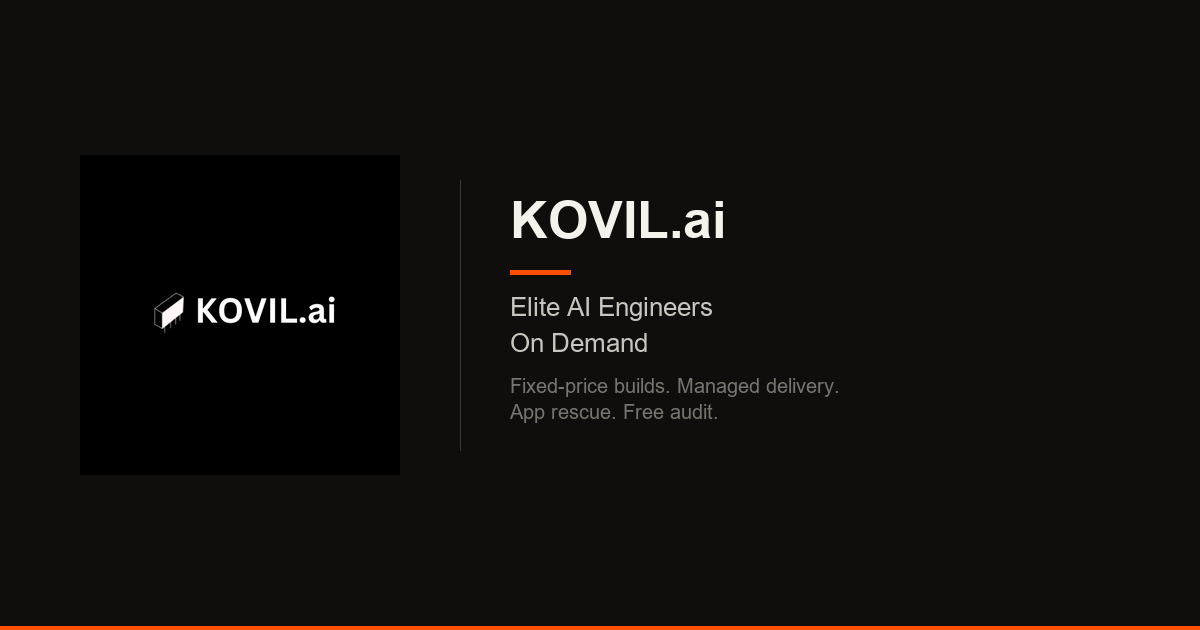
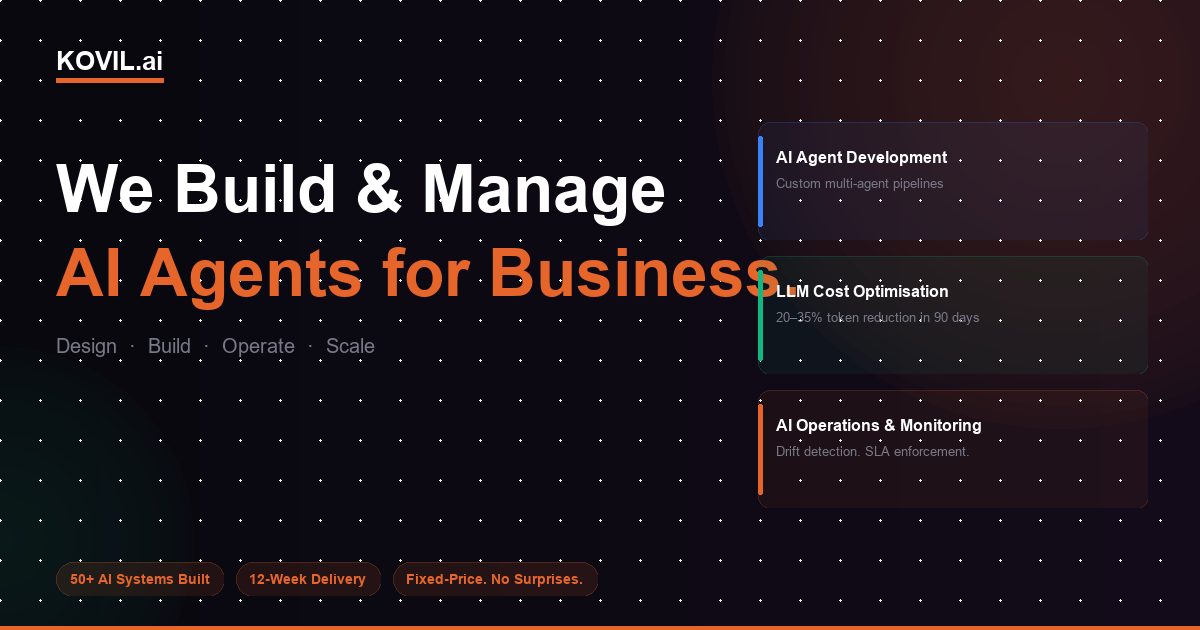
Redesign global og-image.png for social sharing
New design: full-canvas dark card, "We Build & Manage AI Agents for Business."
headline, 3 service cards right, stat pills bottom, orange glow + dot grid.
Replaces sparse "Elite AI Engineers On Demand" card.

diff --git a/scripts/generate-blog-images.py b/scripts/generate-blog-images.py
@@ -2633,6 +2633,113 @@ def make_reduce_ai_token_costs_image():
     print(f"Saved: {out}")
 
 
+def make_og_image():
+    """Global OG image — 1200×630, used as fallback for all non-blog pages."""
+    W_OG, H_OG = 1200, 630
+    img = Image.new("RGBA", (W_OG, H_OG), (8, 8, 14))
+    draw = ImageDraw.Draw(img)
+
+    # Gradient bg
+    for x in range(W_OG):
+        t = x / W_OG
+        r = int(8  + (20 -  8) * t)
+        g = int(8  + (12 -  8) * t)
+        b = int(14 + (26 - 14) * t)
+        draw.line([(x, 0), (x, H_OG)], fill=(r, g, b))
+
+    # Glows
+    glow = Image.new("RGBA", (W_OG, H_OG), (0, 0, 0, 0))
+    gd = ImageDraw.Draw(glow)
+    for i in range(30, 0, -1):
+        r = int(360 * i / 30)
+        a = int(42 * (1 - i / 30) ** 0.5)
+        gd.ellipse([1060 - r, 80 - r, 1060 + r, 80 + r], fill=(*ORANGE, a))
+    img.paste(glow, mask=glow)
+
+    glow2 = Image.new("RGBA", (W_OG, H_OG), (0, 0, 0, 0))
+    gd2 = ImageDraw.Draw(glow2)
+    for i in range(30, 0, -1):
+        r = int(200 * i / 30)
+        a = int(24 * (1 - i / 30) ** 0.5)
+        gd2.ellipse([0 - r, 540 - r, 0 + r, 540 + r], fill=(16, 185, 129, a))
+    img.paste(glow2, mask=glow2)
+
+    draw = ImageDraw.Draw(img)
+
+    # Dot grid
+    for x in range(0, W_OG, 40):
+        for y in range(0, H_OG, 40):
+            draw.ellipse([x - 1, y - 1, x + 1, y + 1], fill=(255, 255, 255, 14))
+
+    # ── KOVIL.ai wordmark ─────────────────────────────────────────────────────
+    logo_font = ImageFont.truetype(FONT_BOLD, 26)
+    draw.text((56, 46), "KOVIL.ai", font=logo_font, fill=WHITE)
+    lw = draw.textbbox((0, 0), "KOVIL.ai", font=logo_font)[2]
+    draw.rectangle([56, 78, 56 + lw, 82], fill=ORANGE)
+
+    # ── Main headline ─────────────────────────────────────────────────────────
+    h1_font  = ImageFont.truetype(FONT_BOLD,    66)
+    sub_font = ImageFont.truetype(FONT_REGULAR, 20)
+
+    draw.text((56, 152), "We Build & Manage",       font=h1_font, fill=WHITE)
+    draw.text((56, 236), "AI Agents for Business.", font=h1_font, fill=ORANGE)
+
+    # Sub-tagline
+    draw.text((56, 334), "Design  ·  Build  ·  Operate  ·  Scale",
+              font=sub_font, fill=GREY_DIM)
+
+    # ── Bottom stat pills ─────────────────────────────────────────────────────
+    stats     = ["50+ AI Systems Built", "12-Week Delivery", "Fixed-Price. No Surprises."]
+    pill_font = ImageFont.truetype(FONT_BOLD, 14)
+    px, py    = 56, H_OG - 68
+    for stat in stats:
+        pw = draw.textbbox((0, 0), stat, font=pill_font)[2] + 28
+        ph = 34
+        pill = Image.new("RGBA", (pw, ph), (0, 0, 0, 0))
+        pc = ImageDraw.Draw(pill)
+        pc.rounded_rectangle([0, 0, pw, ph], radius=17, fill=(*ORANGE, 28))
+        pc.rounded_rectangle([0, 0, pw, ph], radius=17, outline=(*ORANGE, 80), width=1)
+        img.paste(pill, (px, py), mask=pill)
+        draw = ImageDraw.Draw(img)
+        draw.text((px + pw // 2, py + ph // 2), stat,
+                  font=pill_font, fill=ORANGE, anchor="mm")
+        px += pw + 12
+
+    # ── Right side: 3 service cards ───────────────────────────────────────────
+    services = [
+        ("AI Agent Development",      "Custom multi-agent pipelines",      (59, 130, 246)),
+        ("LLM Cost Optimisation",     "20–35% token reduction in 90 days", (16, 185, 129)),
+        ("AI Operations & Monitoring","Drift detection. SLA enforcement.",  ORANGE),
+    ]
+    card_w, card_h, gap = 390, 118, 16
+    sx = W_OG - card_w - 52
+    total_h = len(services) * card_h + (len(services) - 1) * gap
+    sy = (H_OG - total_h) // 2
+
+    name_f = ImageFont.truetype(FONT_BOLD,    16)
+    desc_f = ImageFont.truetype(FONT_REGULAR, 13)
+
+    for i, (name, desc, col) in enumerate(services):
+        cy = sy + i * (card_h + gap)
+        card = Image.new("RGBA", (card_w, card_h), (0, 0, 0, 0))
+        cd = ImageDraw.Draw(card)
+        cd.rounded_rectangle([0, 0, card_w, card_h], radius=12, fill=(*col, 16))
+        cd.rounded_rectangle([0, 0, card_w, card_h], radius=12, outline=(*col, 60), width=1)
+        cd.rounded_rectangle([0, 14, 4, card_h - 14], radius=2, fill=col)
+        img.paste(card, (sx, cy), mask=card)
+        draw = ImageDraw.Draw(img)
+        draw.text((sx + 18, cy + 26), name, font=name_f, fill=WHITE)
+        draw.text((sx + 18, cy + 54), desc, font=desc_f, fill=GREY_DIM)
+
+    # Orange bar
+    draw.rectangle([0, H_OG - 4, W_OG, H_OG], fill=ORANGE)
+
+    img = img.convert("RGB")
+    out = os.path.join(OUT_DIR, "og-image.png")
+    img.save(out, "PNG", optimize=True)
+    print(f"Saved: {out}")
+
+
 if __name__ == "__main__":
     make_cost_image()
     make_llm_comparison_image()
@@ -2658,4 +2765,5 @@ if __name__ == "__main__":
     make_ecommerce_image()
     make_openai_vs_anthropic_image()
     make_reduce_ai_token_costs_image()
+    make_og_image()
     print("Done.")
